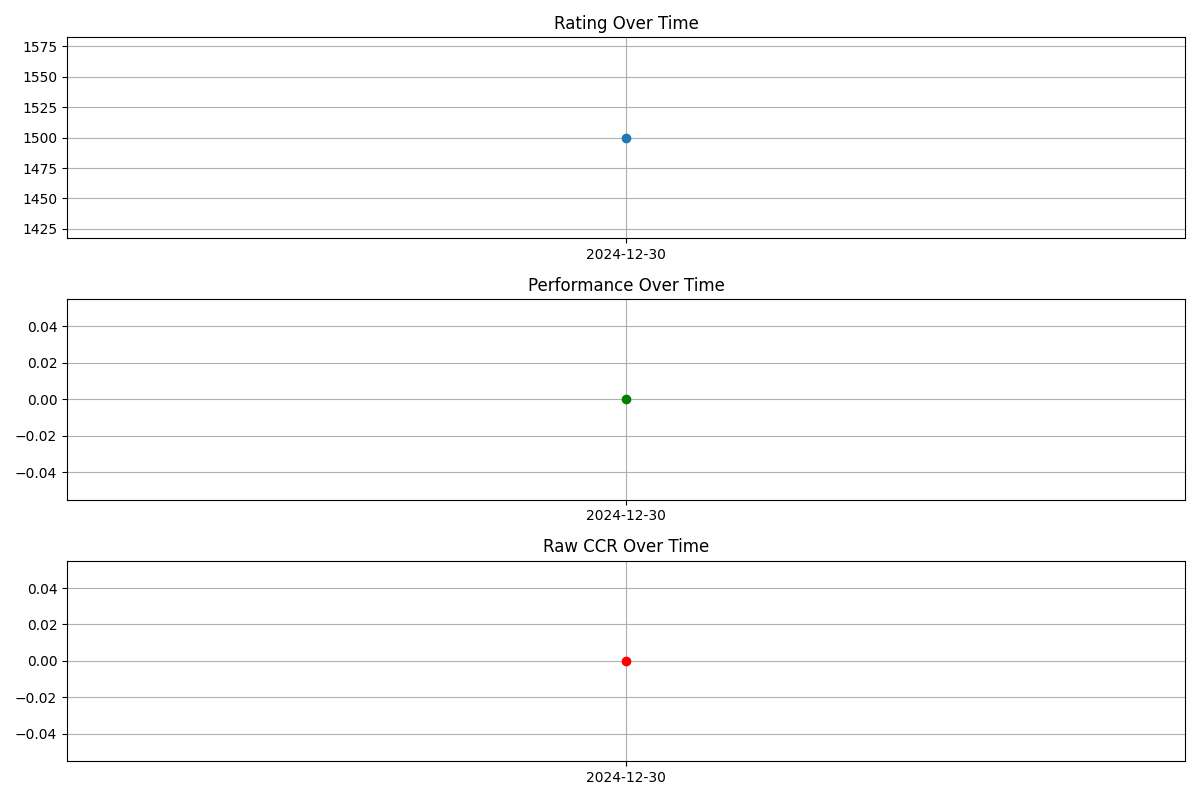
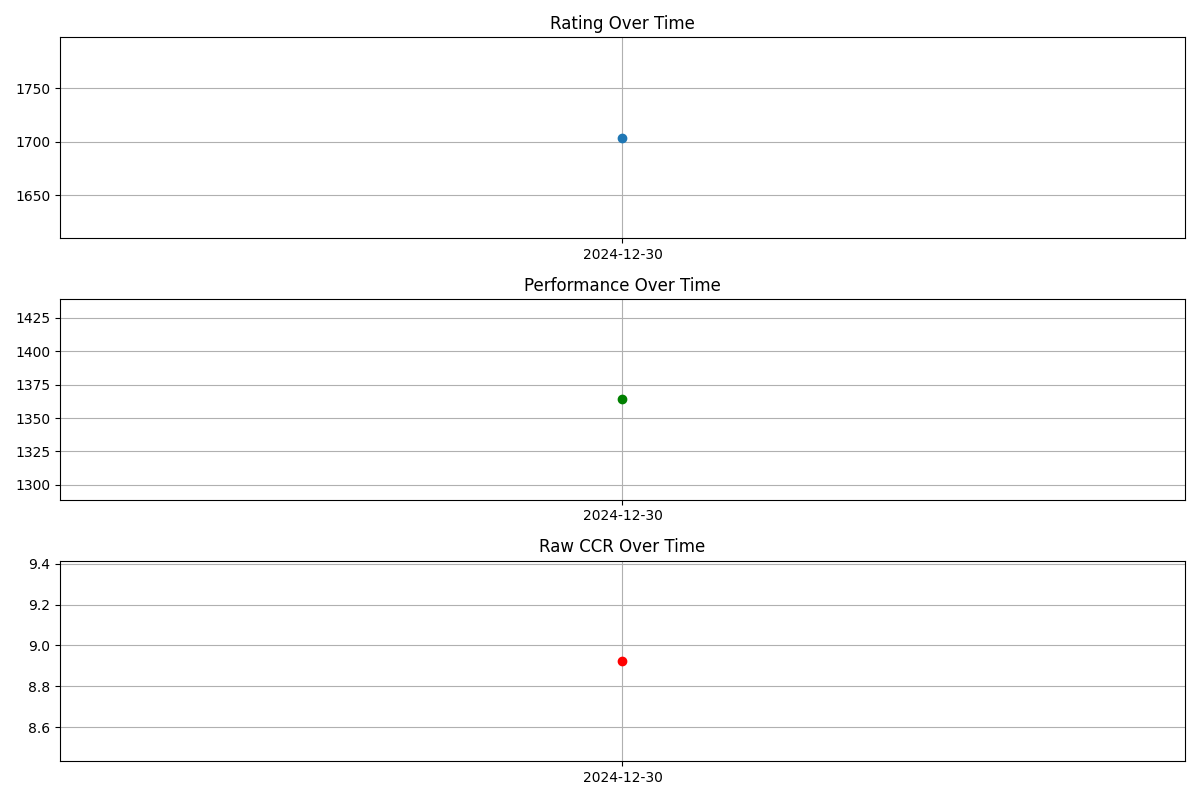
Major Update 2

diff --git a/templates/viewplayers.html b/templates/viewplayers.html
@@ -13,9 +13,16 @@
             window.location.href = '/';  
         }
     </script>
+    <div class="sorting-pane">
+        <form method="POST" action="/viewplayers">
+            <button type="submit" name="sort_by" value="ccr" class="{{ 'active' if sort_by == 'ccr' else '' }}">Default (CCR)</button>
+            <button type="submit" name="sort_by" value="rating" class="{{ 'active' if sort_by == 'rating' else '' }}">Rating</button>
+            <button type="submit" name="sort_by" value="podiums" class="{{ 'active' if sort_by == 'podiums' else '' }}">Most Podiums</button>
+        </form>
+    </div>
+    
     <div class="container">
         <h1 class="header">Leaderboard</h1>
-
         
         {% if data %}
             <table>
@@ -25,18 +32,16 @@
                         <th>Name</th>
                         <th>Total CCR</th>
                         <th>Rating</th>
-                        <th>Number of tournaments</th>
+                        <th>Number of Tournaments</th>
                         <th>Number of Podiums</th>
-
                     </tr>
                 </thead>
                 <tbody>
-                    
                     {% for player in data %}
                         <tr>
                             <td>{{ loop.index }}</td>
                             <td>{{ player[0] }}</td>
-                            <td>{{ player[2] | round(3)}}</td>
+                            <td>{{ player[2] | round(3) }}</td>
                             <td>{{ player[1] }}</td>
                             <td>{{ player[3] }}</td>
                             <td>{{ player[4] }}</td>

diff --git a/static/styles_lboard.css b/static/styles_lboard.css
@@ -77,3 +77,36 @@ p {
     font-size: 18px;
     color: #666;
 }
+/* Sorting Pane */
+.sorting-pane {
+    display: flex;
+    justify-content: center;
+    margin-bottom: 20px;
+    background-color: rgba(0, 0, 0, 0.6);
+    padding: 10px;
+    border-radius: 10px;
+    box-shadow: 0 4px 10px rgba(0, 0, 0, 0.2);
+}
+
+/* Sorting Buttons */
+.sorting-pane button {
+    padding: 10px 20px;
+    margin: 0 10px;
+    font-size: 1rem;
+    color: white;
+    background-color: rgba(255, 255, 255, 0.2);
+    border: none;
+    border-radius: 5px;
+    cursor: pointer;
+    transition: background-color 0.3s ease, font-weight 0.3s ease;
+}
+
+.sorting-pane button:hover {
+    background-color: rgba(255, 255, 255, 0.4);
+}
+
+.sorting-pane button.active {
+    background-color: #4CAF50;
+    font-weight: bold;
+}
+

diff --git a/templates/iconic.html b/templates/iconic.html
@@ -28,8 +28,13 @@
                     <strong>Weight:</strong> {{ tournament[4] }}
                 </p>
             </div>
-            <a class="tournament-gif" href="{{tournament[6]}}" target="_blank">
-                <img src="{{ tournament[5] }}"></img>
+            <a class="tournament-gif" href="{{ tournament[6] }}" target="_blank">
+                <iframe src="{{ tournament[5]}}" 
+                        width="600" 
+                        height="397" 
+                        frameborder="0" 
+                        allowfullscreen>
+                </iframe>
                 <p>Click To View Actual Game</p>
             </a>
         </div>

diff --git a/templates/add.html b/templates/add.html
@@ -63,8 +63,8 @@
 
                 <!-- PGN Iconic Game Input -->
                 <div class="form-group">
-                    <label for="pgniconic">GIF of Iconic Game</label>
-                    <input type="url" id="pgniconic" name="pgniconic" required>
+                    <label for="pgniconic">Link to Iconic Game</label>
+                    <input type="url" id="pgniconic" name="pgniconic" placeholder="https://lichess.org/gameID" required>
                 </div>
 
                 <!-- Winner Input -->

diff --git a/static/styles_addtour.css b/static/styles_addtour.css
@@ -86,6 +86,7 @@ input[type="date"],
 input[type="file"],
 input[type="submit"],
 input[type="number"],
+input[type="url"],
 textarea {
     width: 100%;
     padding: 10px;

diff --git a/app.py b/app.py
@@ -35,12 +35,21 @@ def db():
     conn.commit()
     conn.close()
 
-def ccr(w,r,p,pct,perf):
+def ccr(w,r,p,pct,perf,games):
     try:
-        ccr=p*0.1+0.000003*perf**2-0.02*pct+0.2*r
-        ccr*=w/5
-    except Exception as e: ccr=0.0
-    return round(ccr,3)
+        ccr = p * 0.12 + 0.0000035 * perf**2 - 0.03 * pct + 0.08 * r
+        if games <= 5:
+            game_bonus = 0.4 * games
+        elif games <= 10:
+            game_bonus = 1.75 + 0.15 * (games - 5)
+        else:
+            game_bonus = 2.8
+        ccr += game_bonus
+        ccr *= w / 5
+    except:
+        ccr = 0.0
+    return round(ccr, 3)
+
 
 
 def ccrdecay(ccr, weight, tournament_date):
@@ -107,7 +116,7 @@ def updateplayer(rows, pgn,w,p):
                 pct=round((p-int(player['Rank']))*100/p,2)
                 player['pct']=pct
                 try:
-                    player['ccr']=ccr(w,player['winrate'],int(player['Score']),pct,int(player['Performance']))
+                    player['ccr']=ccr(w,player['winrate'],int(player['Score']),pct,int(player['Performance']),games)
                 except Exception as e:
                     player['ccr']=0.0
                     return redirect('/')
@@ -223,7 +232,7 @@ def updatedb(rows, tournament_date, tournament_name, weight,winner,players,gif):
                 ''', (username, rating, total_ccr, tourns, total_podiums))
 
         main_conn.commit()
-        gamelink='https://lichess.org/'+gif.split('/')[-1][:-4]
+        gamelink='https://lichess.org'+gif[30:]
         main_cursor.execute('INSERT INTO tourns (name,winner,date,players,weight,gif,link) VALUES (?,?,?,?,?,?,?)',(tournament_name,winner,tournament_date,players,weight,gif,gamelink))
         main_conn.commit()
         main_conn.close()
@@ -281,19 +290,34 @@ def add():
 
 
 
-@app.route('/viewplayers')
+@app.route('/viewplayers', methods=['GET', 'POST'])
 def viewplayers():
     try:
         updateccr()
-        conn=sqlite3.connect('data/main.db')
-        c=conn.cursor()
-        c.execute('SELECT * FROM players ORDER BY ccr DESC')
-        rows=c.fetchall()
-        conn.close()
-        return render_template('viewplayers.html',data=rows)
-    except Exception as e: 
-        print('Relay Error from ViewPlayers: ',e)
-        return render_template('viewplayers.html',data=())
+        if request.method == 'GET':
+            sort_by = 'ccr'
+            conn = sqlite3.connect('data/main.db')
+            c = conn.cursor()
+            c.execute(f'SELECT * FROM players ORDER BY ccr DESC')
+            rows = c.fetchall()
+            return render_template('viewplayers.html',data=rows,sort_by=sort_by)
+        else:
+            sort_by = request.form.get('sort_by', 'ccr')
+            sort_column = {
+                'ccr': 'ccr DESC',
+                'rating': 'rating DESC',
+                'podiums': 'podiums DESC, ccr DESC'
+            }.get(sort_by, 'ccr DESC')
+            conn = sqlite3.connect('data/main.db')
+            c = conn.cursor()
+            c.execute(f'SELECT * FROM players ORDER BY {sort_column}')
+            rows = c.fetchall()
+            conn.close()
+            return render_template('viewplayers.html', data=rows, sort_by=sort_by)
+    except Exception as e:
+        print('Relay Error from ViewPlayers: ', e)
+        return render_template('viewplayers.html', data=(), sort_by='ccr')
+
 
 
 @app.route('/guide')
